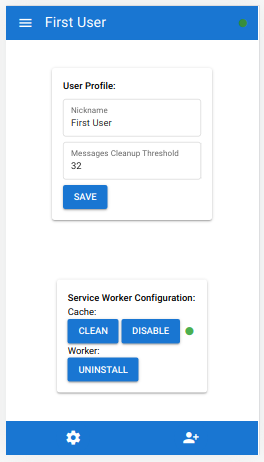
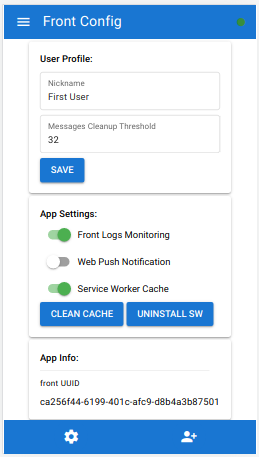
DC-106 Renew README

diff --git a/README.md b/README.md
@@ -25,6 +25,7 @@ QR-code for smartphones:
 
 * [Requirements](#requirements)
 * [Installation](#installation)
+* [Logs monitoring](#logs-monitoring)
 * [First user registration](#first-user-registration)
 * ['Homepage' panel](#homepage-panel)
 * ['Configuration' panel](#configuration-panel)
@@ -93,12 +94,14 @@ Change local configuration according your environment:
   "@flancer32/dup-proto": {
     "db": {
       "use": "'knex' configuration options here"
-    }
+    },
+    "logsMonitor": "dup.log.flancer64.com"
   },
   "@teqfw/core": {
     "devMode": false
   },
   "@teqfw/web": {
+    "frontLogsMonitoring": true,
     "server": {
       "port": 9999
     },
@@ -108,8 +111,22 @@ Change local configuration according your environment:
     "email": "dup@flancer64.com"
   }
 }
-
 ```
+
+* **@flancer32/dup-proto**:
+  * **db**: `knex` based configuration for DB connection on backend;
+  * **logsMonitor**: (optional) address of log monitoring service (
+    see [flancer64/pwa_log_agg](https://github.com/flancer64/pwa_log_agg));
+* **@teqfw/core**:
+  * **devMode**: `true` if application started in development mode (remove `i18n` cache, etc.);
+* **@teqfw/web**:
+  * **frontLogsMonitoring**: `true` if fronts should use log transmitting to back by default;
+  * **server**:
+    * **port**: port to use by application's web server;
+  * **urlBase**: `localhost` or any domain name that is used to connect to web-server;
+* **@teqfw/web-push**:
+  * **email**: used by [web-push](https://github.com/web-push-libs/web-push) package as admin contact to prepare Web
+    Push requests;
 
 ### Test backend
 
@@ -210,17 +227,17 @@ Start backend in HTTP/2 mode:
 $ ./bin/tequila.mjs web-server-start
 ```
 
+## Logs monitoring
+
+This project uses log monitoring service: [flancer64/pwa_log_agg](https://github.com/flancer64/pwa_log_agg)
+. `pwa_log_agg` is a standalone project created on the same platform.
+
+You can see backend and frontend logs at https://dup.log.flancer64.com/#/ . All fronts transmit own logs to back then
+back transmits its to this monitoring service. Logs transmitting can be disabled in [app config](#configuration-panel).
+
 ## First user registration
 
-Goto frontend then subscribe to Web Push notifications (if available):
-
-![First Screen](doc/img/readme/dup_first_screen.png)
-
-Accept Web Push notification if it is blocked:
-
-![Web Push Notification](doc/img/readme/dup_first_web_push_notification.png)
-
-then enter your nickname:
+Goto frontend then enter your nickname:
 
 ![](doc/img/readme/dup_first_nick.png)
 
@@ -241,10 +258,14 @@ That's all.
 * **User Profile**
   * **Nickname**: your own nickname in this front app.
   * **Messages Cleanup Threshold**: number of messages to store in IDB for one band (person-to-person chat).
-* **Service Worker Configuration**
-  * **Clean**: remove all files saved in Service Worker cache.
-  * **Disable**: don't use Service Worker cache (for developers).
-  * **Uninstall**: uninstall current Service Worker (for developers).
+* **App Settings**
+  * **Front Logs Monitoring**: enable/disable logs transmitting to backend for this front.
+  * **Web Push Notification**: enable/disable Web Push notifications for this front.
+  * **Service Worker Cache**: don't use Service Worker cache (helpful for developers).
+  * **Clean Cache**: remove all files saved in Service Worker cache.
+  * **Uninstall SW**: uninstall current Service Worker (for developers).
+* **App Info**:
+  * **front UUID**: UUID for current front (all front's logs are marked with this UUID).
 
 User profile and all other frontend data are stored in IndexedDBs:
 
@@ -278,11 +299,7 @@ This is typical invitation link: https://.../#/invite/validate/f8d30ab409fb50a1e
 
 ![Registration First Step](doc/img/readme/dup_reg_step_accept.png)
 
-Press 'Accept' button then allow Web Push subscription:
-
-![Registration Web Push](doc/img/readme/dup_reg_step_web_push.png)
-
-... and enter your nickname:
+Press 'Accept' button then enter your nickname:
 
 ![Registration Web Push](doc/img/readme/dup_reg_step_nick.png)
 
